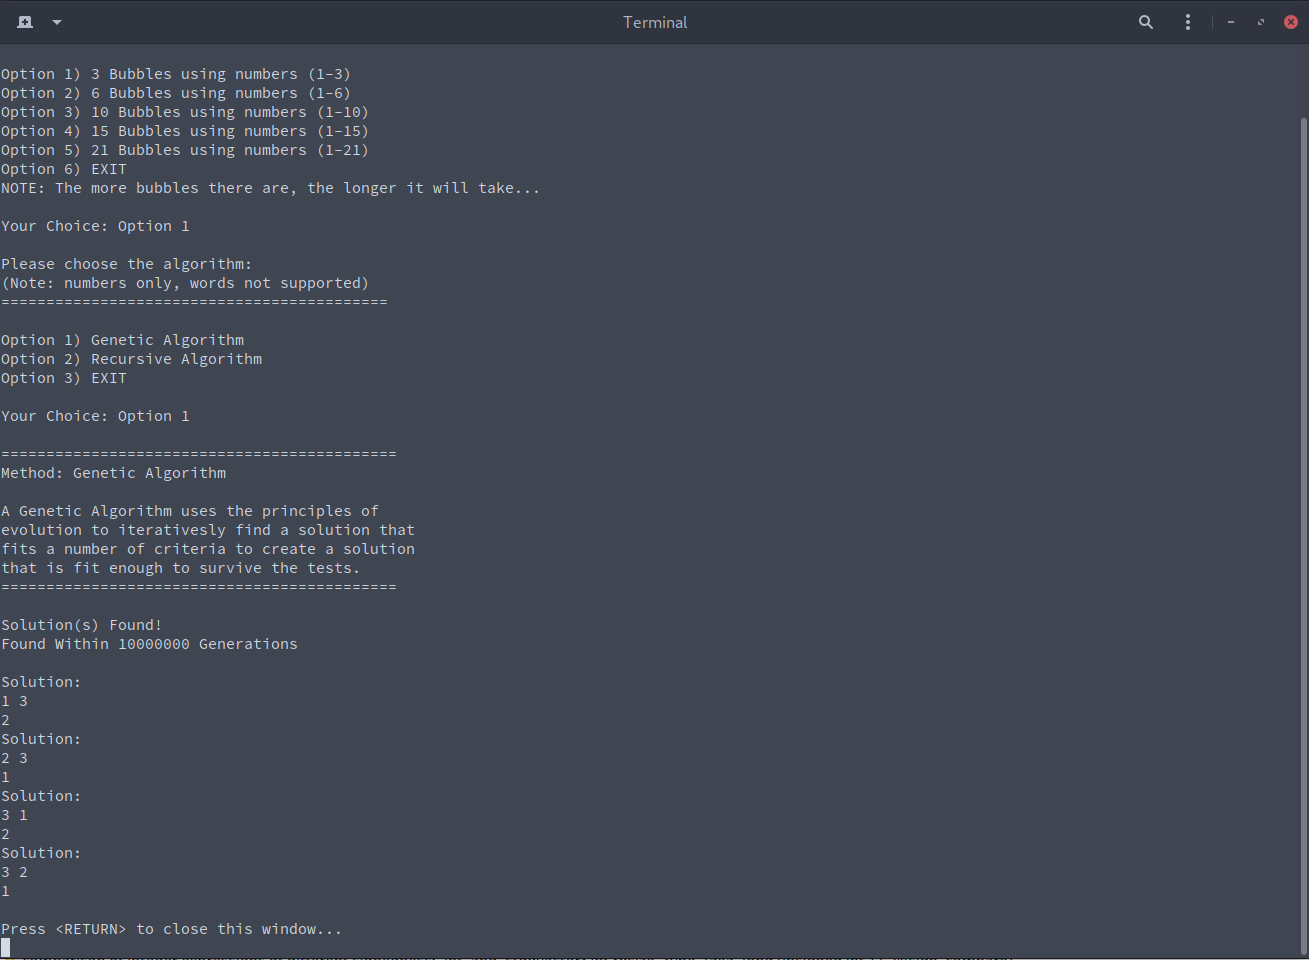
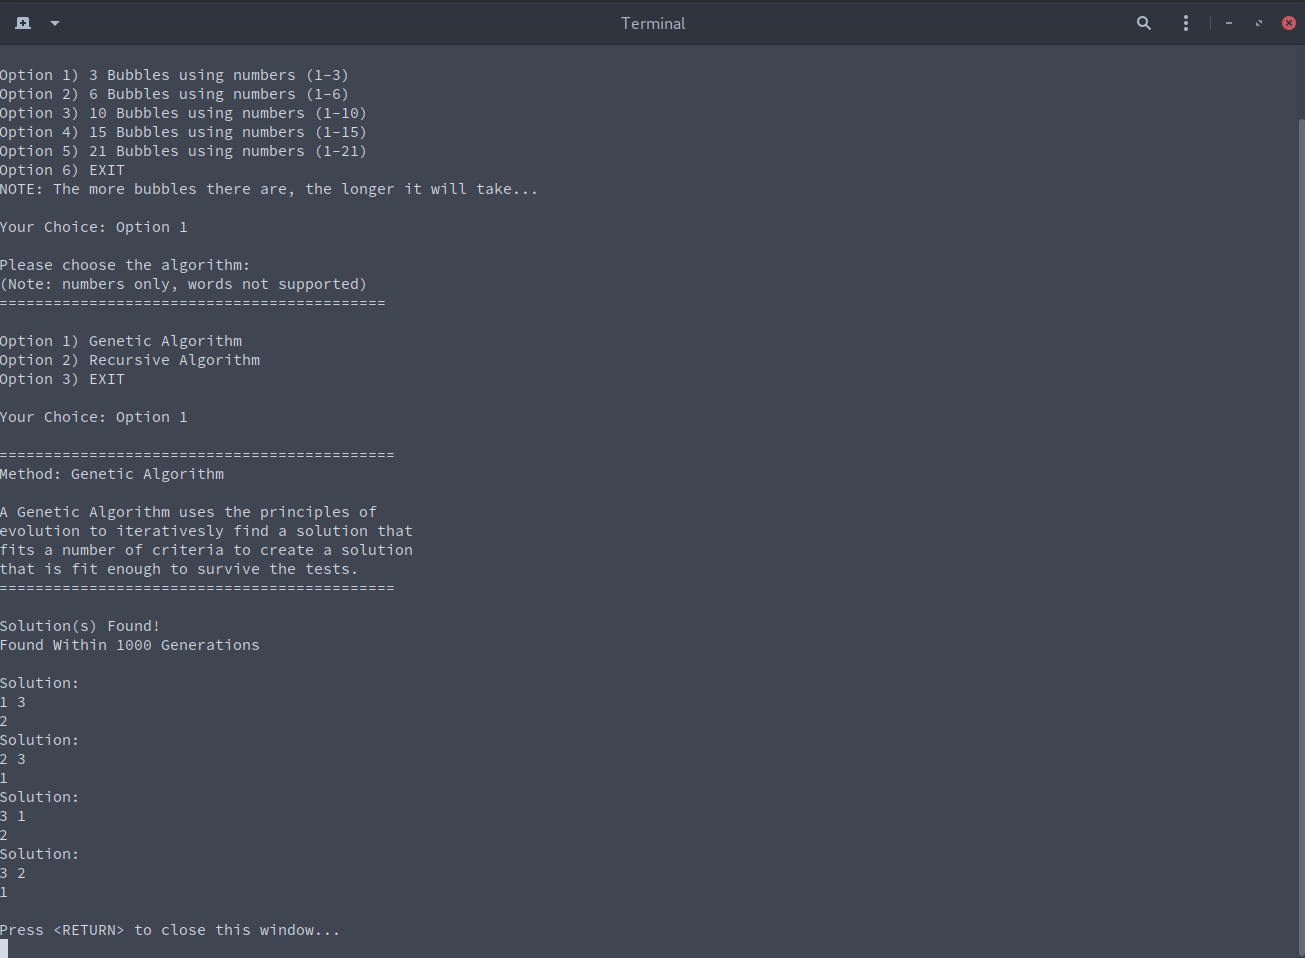
Add recursive screenshots && required constructors

diff --git a/src/recursive-algorithm.cpp b/src/recursive-algorithm.cpp
@@ -29,6 +29,16 @@ RecursiveAlgorithm::RecursiveAlgorithm(int total_number_bubbles, int total_top_r
         set_has_solution(false);
 }// end of constructor
 
+RecursiveAlgorithm::~RecursiveAlgorithm(){
+        // Clean all the vectors
+        for(std::vector<int> solution : m_num_charts){
+            solution.clear();
+            solution.resize(0);
+        }// end of for
+        m_num_charts.clear();
+        m_num_charts.resize(0);
+}// end of deconstructor
+
 void RecursiveAlgorithm::generate_solutions(){
         // Variables
         std::vector<int> starting_solution;
@@ -61,13 +71,6 @@ void RecursiveAlgorithm::generate_solutions(){
                 //Trim the solutions to only have unique values
                 trim_solutions();
 
-                //There are a limited number of unique solutions
-                // 2 backrow = 4 unique solutions (option 1)
-                // 3 backrow = 8 unique solutions (option 2)
-                // 4 backrow = 8 unique solutions (option 3)
-                // 5 backrow = 1 unique solutions (option 4)
-                // 6 backrow = 0 unique solutions (option 5) - Error
-
                 // Increment the total number of while loop runs;
                 solution_generation_counter++;
                 //if (solution_generation_counter % 1000 == 0) std::cout << ">> " << solution_generation_counter << "; solution : " << potential_solution.size() << "; m_num_charts: " << m_num_charts.size() << std::endl;
@@ -89,7 +92,7 @@ void RecursiveAlgorithm::generate_solutions(){
         std::cout << "============================================" << std::endl;
         std::cout << "" << std::endl;
 
-        if (!has_solution() || (solution_generation_counter == TOTAL_NUM_TEST_RUNS)){
+        if (!has_solution() && (solution_generation_counter == TOTAL_NUM_TEST_RUNS)){
                 std::cout << "Solution Not Found!" << std::endl;
                 std::cout << "Total Number Generations: " << solution_generation_counter << std::endl;
         } else {

diff --git a/src/genetic-algorithm.cpp b/src/genetic-algorithm.cpp
@@ -36,6 +36,16 @@ GeneticAlgorithm::GeneticAlgorithm(int total_number_bubbles, int total_top_row_b
         set_has_solution(false);
 }// end of constructor
 
+GeneticAlgorithm::~GeneticAlgorithm(){
+        // Clean all the vectors
+        for(std::vector<int> solution : m_num_charts){
+            solution.clear();
+            solution.resize(0);
+        }// end of for
+        m_num_charts.clear();
+        m_num_charts.resize(0);
+}// end of deconstructor
+
 void GeneticAlgorithm::generate_solutions(){
         // Variable
         const int TOTAL_NUMBER_SOLUTIONS = 1000;            // Total number of solutions to generate
@@ -49,8 +59,7 @@ void GeneticAlgorithm::generate_solutions(){
         m_num_charts.clear();
 
         // Generate potential solutions until a solution has been found
-        while ((solution_generator_counter < TOTAL_NUMBER_TEST_RUNS) ||
-               (!has_solution())){
+        while (solution_generator_counter < TOTAL_NUMBER_TEST_RUNS){
                 // Should m_num_charts not be empty due to partial_fit setting some values
                 // as potential solutions, determine how much needs to be regenerated, and regenerate
                 // the data
@@ -111,15 +120,11 @@ void GeneticAlgorithm::generate_solutions(){
                 m_num_charts = partial_fit;
                 partial_fit.clear();
 
-
-
-                // Determine if the number of generations has run its countse
-                //if (solution_generator_counter >= TOTAL_NUMBER_TEST_RUNS){
-                        //break;
-                //}// end of if
                 // Increment the total number of while-loop runs
                 solution_generator_counter++;
                 trim_solutions();
+
+                if(m_num_charts.size() >= 8) break;
         }// end of while loop
 
         // Display more information about the solution:

diff --git a/src/main.cpp b/src/main.cpp
@@ -53,6 +53,14 @@ void reason_for_failure();
 
 //Main loop of the program
 int main(){
+        // EXPECTED RESULTS:
+        //There are a limited number of unique solutions
+        // 2 backrow = 4 unique solutions (option 1)          -> Done(Recursive, Genetic)
+        // 3 backrow = 8 unique solutions (option 2)          -> Done(Recursive, )
+        // 4 backrow = 8 unique solutions (option 3)          -> Done(Recursive, )
+        // 5 backrow = 2 unique solutions (option 4)          -> Done(Recursive, )
+        // 6 backrow = 0 unique solutions (option 5) - Error  -> Done(Recursive, )
+
 	//Program Varaibles
 	bool unique_numbers_only = true;
 	std::vector<int> num_bubbles;

diff --git a/src/genetic-algorithm.h b/src/genetic-algorithm.h
@@ -31,6 +31,7 @@
 class GeneticAlgorithm{
 public:
 	GeneticAlgorithm(int total_number_bubbles, int total_top_row_bubbles, bool use_unique_numbers = false);
+	~GeneticAlgorithm();
 
 	// This function generates 1000 solutions, checks each solution,
 	// and stops only once at least one generated solution satisfies LayeredChartTest.

diff --git a/src/recursive-algorithm.h b/src/recursive-algorithm.h
@@ -32,6 +32,7 @@
 class RecursiveAlgorithm{
 public:
 	RecursiveAlgorithm(int total_number_bubbles, int total_top_row_bubbles, bool use_unique_numbers = false);
+	~RecursiveAlgorithm();
 
 	// Generate the data as necessary
 	void generate_solutions();

diff --git a/README.md b/README.md
@@ -12,15 +12,19 @@ Please find some screenshots of the results:
 
 Genetic Algorithm:
 1) [2 backmost (unique numbers)](screenshots/2_backmost_row_genetic.png)
-2) [3 backmost (unique numbers)](screenshots/3_backmost_row_genetic.png)
-3) [4 backmost (unique numbers)](screenshots/4_backmost_row_genetic.png)
+2) [3 backmost (unique numbers)_part1](screenshots/3_backmost_row_genetic_part1.png)
+   [3 backmost (unique numbers)_part2](screenshots/3_backmost_row_genetic_part2.png)
+3) [4_backmost_(unique_numbers)_part1](screenshots/4_backmost_row_genetic_part1.png)
+   [4_backmost_(unique_numbers)_part2](screenshots/4_backmost_row_genetic_part2.png)
 4) [5 backmost (unique numbers)](screenshots/5_backmost_row_genetic.png)
 5) [6_backmost_(error_message)](screenshots/error_genetic.png)
 
 Recursive Algorithm:
 1) [2_backmost_(unique_numbers)](screenshots/2_backmost_row_recursive.png)
-2) [3_backmost_(unique_numbers)](screenshots/3_backmost_row_recursive.png)
-3) [4_backmost_(unique_numbers)](screenshots/4_backmost_row_recursive.png)
+2) [3_backmost_(unique_numbers)_part1](screenshots/3_backmost_row_recursive_part1.png)
+   [3_backmost_(unique_numbers)_part2](screenshots/3_backmost_row_recursive_part2.png)
+3) [4_backmost_(unique_numbers)_part1](screenshots/4_backmost_row_recursive_part1.png)
+   [4_backmost_(unique_numbers)_part2](screenshots/4_backmost_row_recursive_part2.png)
 4) [5_backmost_(unique_numbers)](screenshots/5_backmost_row_recursive.png)
 5) [6_backmost_(error_message)](screenshots/error_recursive.png)
 
